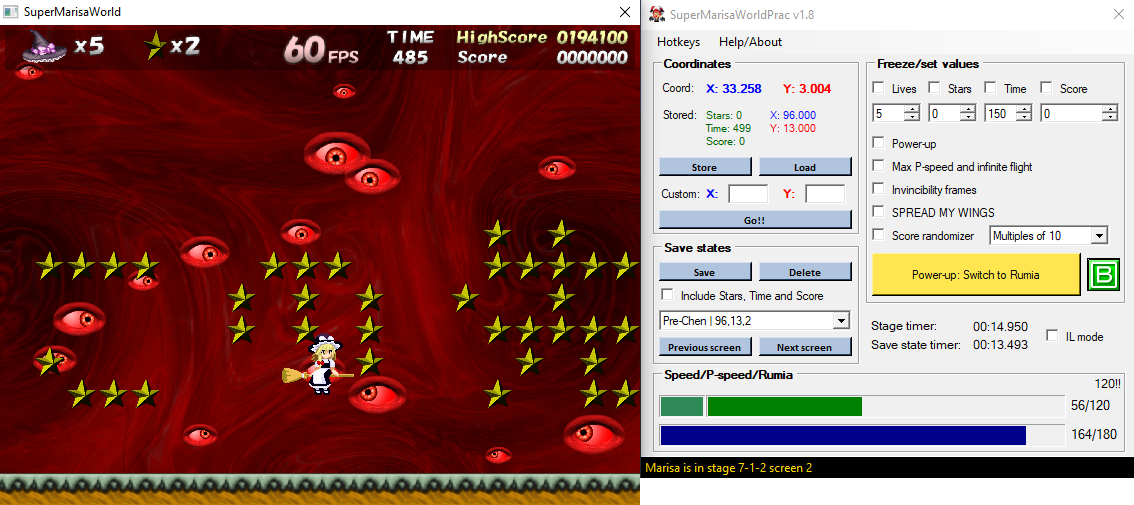
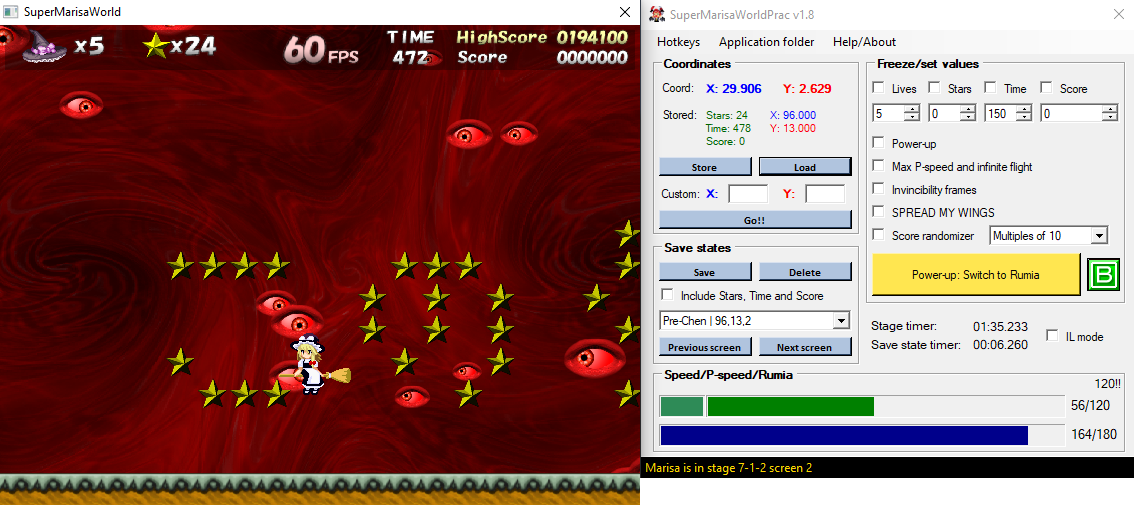
1.8 changes

diff --git a/MarisaWorldPrac/MainWindow.cs b/MarisaWorldPrac/MainWindow.cs
@@ -38,7 +38,7 @@ namespace SuperMarisaWorldPrac
         int[] STATE_OFFSET = { -0x30 };
         int[] SCREEN_ID_OFFSET = { 0x14 }, PIPE_OFFSET = { 0xADC }, X_OFFSET = { 0x1C }, Y_OFFSET = { 0x28 };
         int[] LIVES_OFFSET = { 0xA88 }, STARS_OFFSET = { 0xA8C }, TIME_OFFSET = { 0xA98 }, SCORE_OFFSET = { 0xA9C }, SCOREBONUS_OFFSET = { 0xE4 };
-        int[] ANIMATION_OFFSET = { 0x50 }, POWERUP_OFFSET = { 0x54 }, RUMIA_OFFSET = { 0x5C }, GROUNDED_FLAG_OFFSET = { 0x74 };
+        int[] ANIMATION_OFFSET = { 0x50 }, POWERUP_OFFSET = { 0x54 }, RUMIA_OFFSET = { 0x5C }, GROUNDTYPE_OFFSET = { 0x74 };
         int[] PSPEED_OFFSET = { 0x88 }, FLIGHT_OFFSET = { 0x90 }, IFRAMES_OFFSET = { 0x94 }, STOPWATCH_OFFSET = { 0x94C };
         int[] BOMBTIMER_OFFSET = { 0xB00 }, BOMB_OFFSET = { 0xB04 }, FPS_OFFSET = { 0xE80 }, RUNSPEED_OFFSET = { 0x64 };
         int[] STAGE_ID_OFFSET = { 0x80, 0x14, 0x68, 0x108, 0x47 }; //I believe in these offsets, hopefully no more pc shenanigans
@@ -51,12 +51,15 @@ namespace SuperMarisaWorldPrac
         const int IDLE = 0, RUN = 1, SLIDE = 3, JUMP = 4, DRILL = 5, BROOM_FLY = 8, BROOM_HOVER = 9, DEATH = 10;
         //bomb block constants
         const int BOMB_ACTIVE = 0, BOMB_INACTIVE = 1;
+        //ground type constants
+        const int AIR = 0, NORMAL_PLATFORM = 1, MOVING_PLATFORM = 2;
 
         int storedX = 1, storedY = 1, storedStars = 0, storedTime = 500, storedScore = 0, storedScreenID = 0;
+
         float XF = 0, YF = 0, storedXF = 1, storedYF = 1; //float coordinates
-        
+
         //a thread will read various values from the game and store them in these ints here
-        int X, Y, stars, time, score, powerup, screenID, pipe, state, stopwatch, bomb, rumia, fps;
+        int X, Y, stars, time, score, powerup, screenID, pipe, state, groundtype, stopwatch, bomb, rumia, fps;
 
         string stageID; //a thread will read the stage ID value and store it in this string here
         List<string> stageList = new List<string>();
@@ -306,7 +309,7 @@ namespace SuperMarisaWorldPrac
                                     }
                                 }
                             }
-                            else if (state == LOADING)
+                            else if (state == LOADING && !inReplayOrUserstage)
                                 if (pipe != 0)
                                     labelStatus.Text = "Marisa is in stage " + stageID + " screen " + screenID + " entering pipe " + pipe;
                         }
@@ -371,6 +374,7 @@ namespace SuperMarisaWorldPrac
                 buffer = pm.Read(FIRST_OFFSET, BOMB_OFFSET); bomb = BitConverter.ToInt32(buffer, 0);
                 buffer = pm.Read(FIRST_OFFSET, FPS_OFFSET); fps = BitConverter.ToInt32(buffer, 0);
                 buffer = pm.Read(FIRST_OFFSET, STATE_OFFSET); state = BitConverter.ToInt32(buffer, 0);
+                buffer = pm.Read(FIRST_OFFSET, GROUNDTYPE_OFFSET); groundtype = BitConverter.ToInt32(buffer, 0);
                 buffer = pm.Read(FIRST_OFFSET, SCREEN_ID_OFFSET); screenID = BitConverter.ToInt32(buffer, 0);
 
                 buffer = pm.Read(FIRST_OFFSET_STAGE_ID, STAGE_ID_OFFSET); stageID = Encoding.Default.GetString(buffer);
@@ -530,7 +534,13 @@ namespace SuperMarisaWorldPrac
                         speedF = BitConverter.ToSingle(speed, 0); //convert to float
                         if (speedF < 0) speedF = speedF * -10000;
                         else speedF = speedF * 10000;
-                        runSpeedBar.Value = (int)speedF;
+                        if ((int)speedF <= 1875)
+                            runSpeedBar.Value = (int)speedF;
+                            if ((int)speedF == 1875)
+                                runSpeedBar.ForeColor = Color.Blue;
+                            else
+                                runSpeedBar.ForeColor = Color.Green;
+
                     });
                 }
                 catch (Exception ex)
@@ -650,7 +660,7 @@ namespace SuperMarisaWorldPrac
                         Invoke((MethodInvoker)delegate //using this because thread
                         {
                             pSpeed = pm.Read(FIRST_OFFSET, PSPEED_OFFSET);
-                            groundedFlag = pm.Read(FIRST_OFFSET, GROUNDED_FLAG_OFFSET);
+                            groundedFlag = pm.Read(FIRST_OFFSET, GROUNDTYPE_OFFSET);
 
                             if (groundedFlag[0] == 0 && !flagStore) //if marisa has jumped and the flag is false
                             {
@@ -752,8 +762,8 @@ namespace SuperMarisaWorldPrac
                             if (checkIL.Checked) //IL mode - only restart the stage upon death
                             {
                                 pm.Write(FIRST_OFFSET, STATE_OFFSET, BitConverter.GetBytes(NEWSTAGE));
-                                if (stageID == "3-2-3" && screenID == 3) //mokou's room
-                                    pm.Write(FIRST_OFFSET, GROUNDED_FLAG_OFFSET, BitConverter.GetBytes(0)); //not grounded otherwise game crashes
+                                if (groundtype == MOVING_PLATFORM) //mokou's room
+                                    pm.Write(FIRST_OFFSET, GROUNDTYPE_OFFSET, BitConverter.GetBytes(AIR)); //not grounded otherwise game crashes
                                 pm.Write(FIRST_OFFSET, SCOREBONUS_OFFSET, BitConverter.GetBytes(1000));
                                 pm.Write(FIRST_OFFSET, POWERUP_OFFSET, BitConverter.GetBytes(MARISA));
                                 pm.Write(FIRST_OFFSET, STOPWATCH_OFFSET, BitConverter.GetBytes(0));
@@ -1139,13 +1149,10 @@ namespace SuperMarisaWorldPrac
                      (stageID == "5-2-4" && screenID == 3) || //yuyuko's room
                      (stageID == "7-2-2" && screenID == 1))   //yukari's room
                 Thread.Sleep(1000); //loading values in these rooms require a longer sleep
-            else if (stageID == "3-2-3" && screenID == 3) //mokou's room
-            {
-                Thread.Sleep(200);
-                pm.Write(FIRST_OFFSET, GROUNDED_FLAG_OFFSET, BitConverter.GetBytes(0)); //not grounded otherwise game crashes
-            }
             else //regular stage - regular sleep
                 Thread.Sleep(200);
+            if (groundtype == MOVING_PLATFORM) //if marisa on a moving platform
+                pm.Write(FIRST_OFFSET, GROUNDTYPE_OFFSET, BitConverter.GetBytes(AIR)); //set ground type to air (if save state was grounded, it will immediately be set to 1 by the game)
             pm.Write(FIRST_OFFSET, SCREEN_ID_OFFSET, BitConverter.GetBytes(storedScreenID));
             pm.Write(FIRST_OFFSET, STATE_OFFSET, BitConverter.GetBytes(PLAYING));
             pm.Write(FIRST_OFFSET, X_OFFSET, BitConverter.GetBytes(storedX));
@@ -1437,6 +1444,11 @@ namespace SuperMarisaWorldPrac
             HotkeyDialog hd = new HotkeyDialog();
             hd.ShowDialog();
             LoadHotkeys();
+        }
+
+        private void applicationFolderToolStripMenuItem_Click(object sender, EventArgs e)
+        {
+            Process.Start("explorer.exe", configpath);
         }
 
         private void helpAboutToolStripMenuItem_Click(object sender, EventArgs e)

diff --git a/MarisaWorldPrac/MainWindow.Designer.cs b/MarisaWorldPrac/MainWindow.Designer.cs
@@ -57,6 +57,7 @@
             this.buttonSave = new System.Windows.Forms.Button();
             this.comboSaves = new System.Windows.Forms.ComboBox();
             this.groupPspeed = new System.Windows.Forms.GroupBox();
+            this.runSpeedBar = new System.Windows.Forms.ProgressBar();
             this.labelFlight = new System.Windows.Forms.Label();
             this.flightBar = new System.Windows.Forms.ProgressBar();
             this.labelJumpP = new System.Windows.Forms.Label();
@@ -82,6 +83,7 @@
             this.checkIL = new System.Windows.Forms.CheckBox();
             this.menuStrip = new System.Windows.Forms.MenuStrip();
             this.settingsToolStripMenuItem = new System.Windows.Forms.ToolStripMenuItem();
+            this.applicationFolderToolStripMenuItem = new System.Windows.Forms.ToolStripMenuItem();
             this.helpAboutToolStripMenuItem = new System.Windows.Forms.ToolStripMenuItem();
             this.groupSaves = new System.Windows.Forms.GroupBox();
             this.label6 = new System.Windows.Forms.Label();
@@ -89,7 +91,6 @@
             this.labelTimerSaveState = new System.Windows.Forms.Label();
             this.label10 = new System.Windows.Forms.Label();
             this.toolTip = new System.Windows.Forms.ToolTip(this.components);
-            this.runSpeedBar = new System.Windows.Forms.ProgressBar();
             this.groupCoordinates.SuspendLayout();
             this.groupPspeed.SuspendLayout();
             this.statusStrip.SuspendLayout();
@@ -425,6 +426,17 @@
             this.groupPspeed.TabStop = false;
             this.groupPspeed.Text = "Speed/P-speed/Rumia";
             // 
+            // runSpeedBar
+            // 
+            this.runSpeedBar.ForeColor = System.Drawing.Color.Green;
+            this.runSpeedBar.Location = new System.Drawing.Point(6, 27);
+            this.runSpeedBar.Maximum = 1875;
+            this.runSpeedBar.Name = "runSpeedBar";
+            this.runSpeedBar.Size = new System.Drawing.Size(47, 23);
+            this.runSpeedBar.Step = 1;
+            this.runSpeedBar.Style = System.Windows.Forms.ProgressBarStyle.Continuous;
+            this.runSpeedBar.TabIndex = 14;
+            // 
             // labelFlight
             // 
             this.labelFlight.AutoSize = true;
@@ -708,6 +720,7 @@
             // 
             this.menuStrip.Items.AddRange(new System.Windows.Forms.ToolStripItem[] {
             this.settingsToolStripMenuItem,
+            this.applicationFolderToolStripMenuItem,
             this.helpAboutToolStripMenuItem});
             this.menuStrip.Location = new System.Drawing.Point(0, 0);
             this.menuStrip.Name = "menuStrip";
@@ -721,6 +734,13 @@
             this.settingsToolStripMenuItem.Size = new System.Drawing.Size(62, 20);
             this.settingsToolStripMenuItem.Text = "Hotkeys";
             this.settingsToolStripMenuItem.Click += new System.EventHandler(this.settingsToolStripMenuItem_Click);
+            // 
+            // applicationFolderToolStripMenuItem
+            // 
+            this.applicationFolderToolStripMenuItem.Name = "applicationFolderToolStripMenuItem";
+            this.applicationFolderToolStripMenuItem.Size = new System.Drawing.Size(114, 20);
+            this.applicationFolderToolStripMenuItem.Text = "Application folder";
+            this.applicationFolderToolStripMenuItem.Click += new System.EventHandler(this.applicationFolderToolStripMenuItem_Click);
             // 
             // helpAboutToolStripMenuItem
             // 
@@ -784,17 +804,6 @@
             this.label10.Size = new System.Drawing.Size(97, 15);
             this.label10.TabIndex = 41;
             this.label10.Text = "Save state timer:";
-            // 
-            // runSpeedBar
-            // 
-            this.runSpeedBar.ForeColor = System.Drawing.Color.SeaGreen;
-            this.runSpeedBar.Location = new System.Drawing.Point(6, 27);
-            this.runSpeedBar.Maximum = 1875;
-            this.runSpeedBar.Name = "runSpeedBar";
-            this.runSpeedBar.Size = new System.Drawing.Size(47, 23);
-            this.runSpeedBar.Step = 1;
-            this.runSpeedBar.Style = System.Windows.Forms.ProgressBarStyle.Continuous;
-            this.runSpeedBar.TabIndex = 14;
             // 
             // MainWindow
             // 
@@ -900,6 +909,7 @@
         private System.Windows.Forms.CheckBox checkIL;
         private System.Windows.Forms.Button buttonBomb;
         private System.Windows.Forms.ProgressBar runSpeedBar;
+        private System.Windows.Forms.ToolStripMenuItem applicationFolderToolStripMenuItem;
     }
 }
 

diff --git a/README.md b/README.md
@@ -1,7 +1,7 @@
 # SuperMarisaWorldPrac
 Download the latest release from [here](https://github.com/shadax1/SuperMarisaWorldPrac/releases) and add the .exe file into your Super Marisa World game folder. Start the game followed by the practice tool and you will be good to go.
 
-**Note:** your game must be on version 1.05
+**Note:** your game must be on version 1.05. This was tested (and works) on both Windows 7 & 10.
 
 ![demo pic](https://raw.githubusercontent.com/shadax1/SuperMarisaWorldPrac/master/misc/demo%20pic.png)
 
@@ -16,7 +16,7 @@ ANIMATION_OFFSET = { 0x50 }
 POWERUP_OFFSET = { 0x54 }
 RUMIA_OFFSET = { 0x5C }
 RUNSPEED_OFFSET = { 0x64 }
-GROUNDED_FLAG_OFFSET = { 0x74 }
+GROUNDTYPE_OFFSET = { 0x74 }
 PSPEED_OFFSET = { 0x88 }
 FLIGHT_OFFSET = { 0x90 }
 IFRAMES_OFFSET = { 0x94 }
@@ -46,4 +46,4 @@ You can see that on the title screen.
 
 ![game version](https://raw.githubusercontent.com/shadax1/SuperMarisaWorldPrac/master/misc/game%20version.png)
 
-If your game is on the correct version but the tool still doesn't work, download [this test application](https://github.com/shadax1/SuperMarisaWorldPrac/blob/master/misc/TestSuperMarisaWorldMap.exe), launch it when the game is open on the world map, then take a screenshot and send it over to me either on Twitter [@shadax1](https://twitter.com/Shadax1) or on Discord to Shadax#6921
+If your game is on the correct version but the tool still doesn't work, download [this test application](https://github.com/shadax1/SuperMarisaWorldPrac/raw/master/misc/TestSuperMarisaWorldMap.exe), launch it when the game is open on the world map, then take a screenshot and send it over to me either on Twitter [@shadax1](https://twitter.com/Shadax1) or on Discord to Shadax#6921
